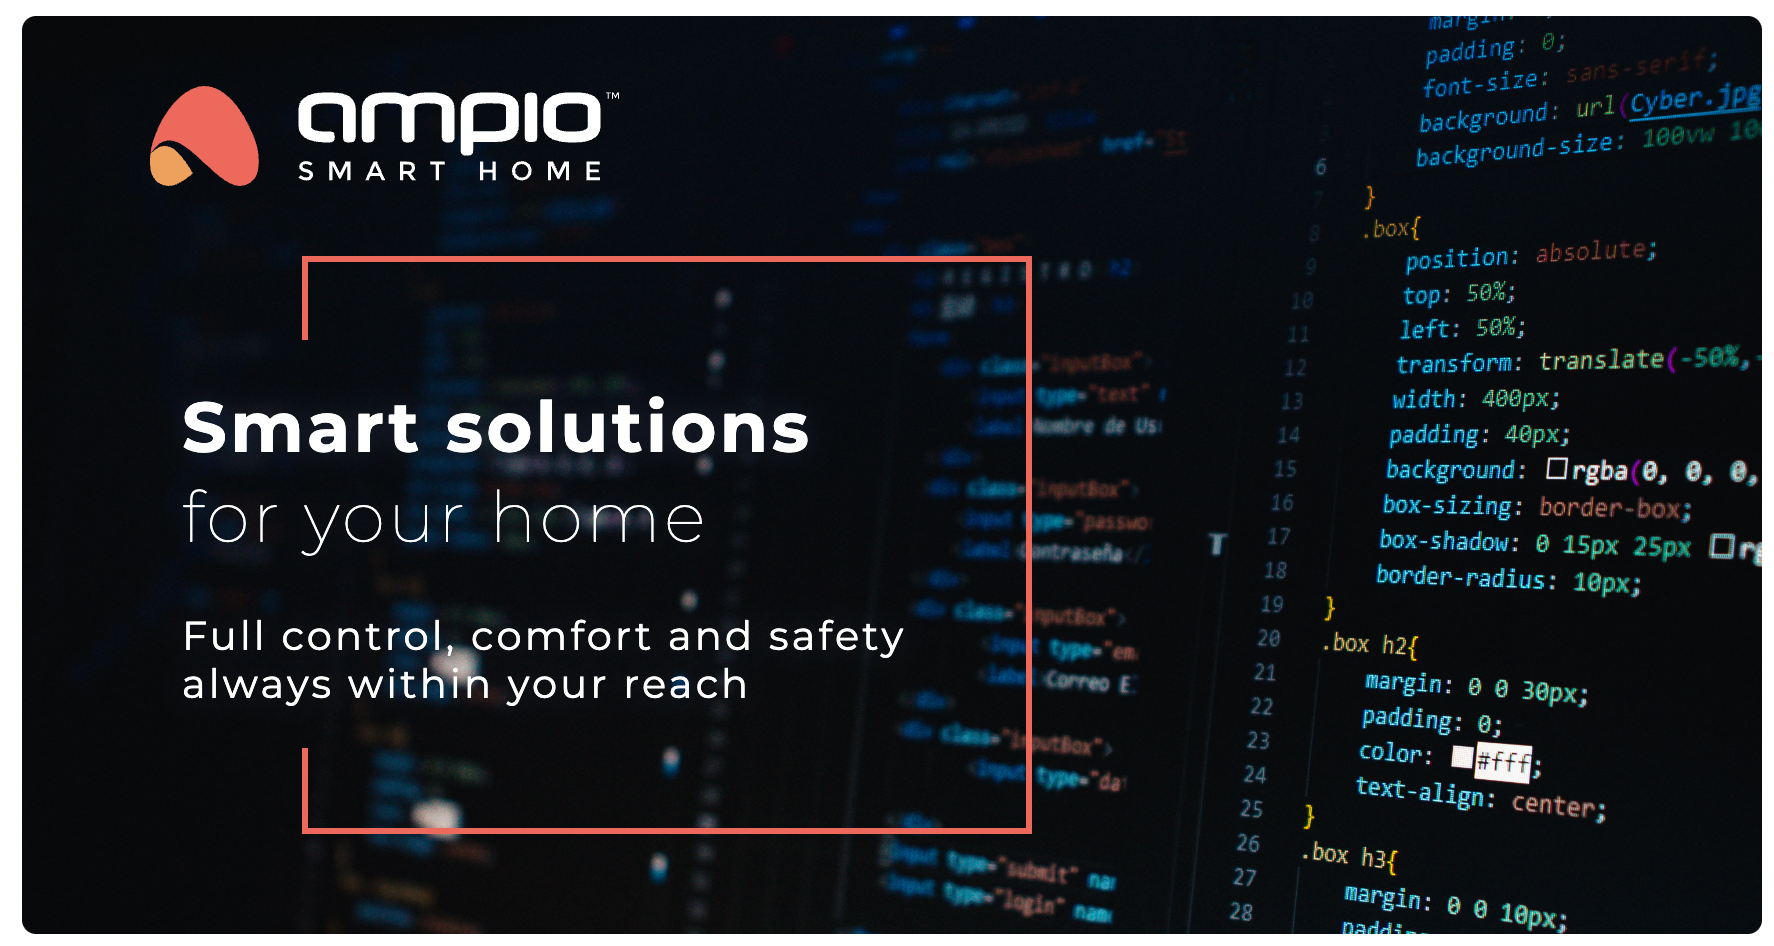
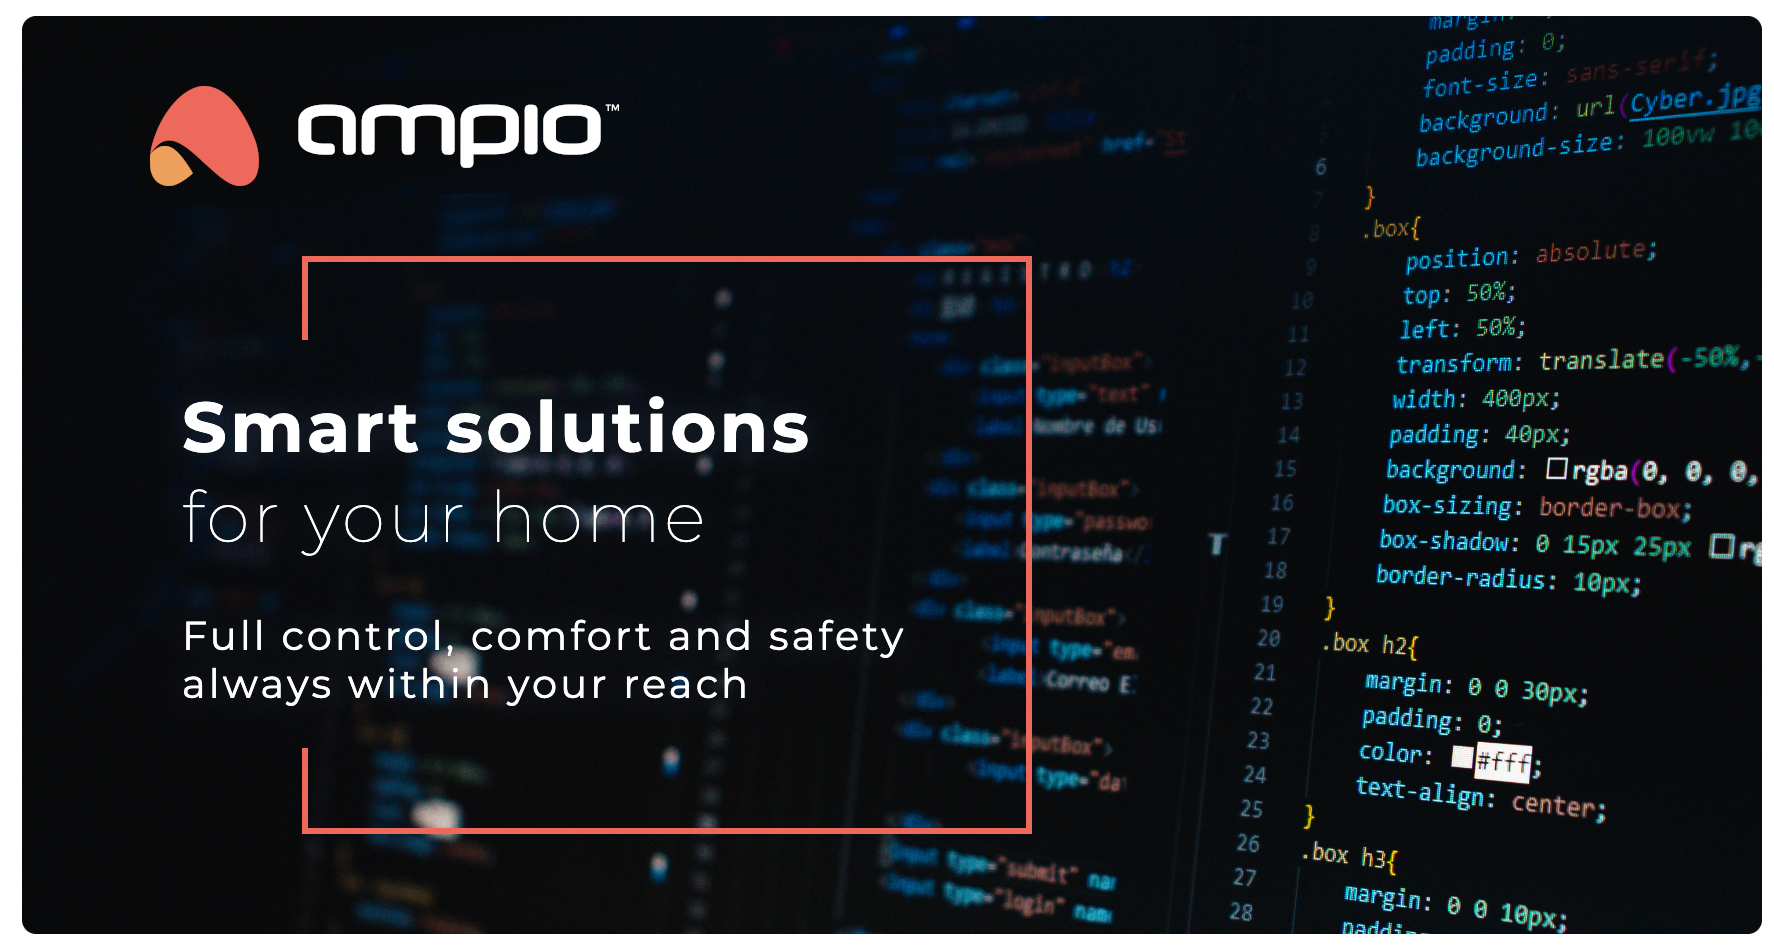
Switch to _just Ampio_ branding.

Changed region(s): [[0.155, 0.092, 0.341, 0.1839]]

diff --git a/profile/README.md b/profile/README.md
@@ -1,14 +1,13 @@
 ![](profile/banner.png)
 
-# Welcome to Ampio Smart Home!
+# Welcome to Ampio
 
-We are Ampio. We design and manufacture a smart home system that provides you with control, comfort,
-safety and reliability. Visit [our page](https://ampio.com) to learn more about our solution!
+We are Ampio. We design and manufacture a building automation system that provides you with control,
+comfort, safety and reliability. Visit [our page](https://ampio.com) to learn more about our solution!
 
-The Ampio smart home system is flexible and welcoming for programmatic integrations and
-customisations. This organisation site is maintained to provide our customers and installers with
-tools, examples and other open-source resources allowing them more comprehensive utilisation of the
-system.
+The Ampio system is flexible and welcoming for programmatic integrations and customisations. This
+organisation site is maintained to provide our customers and installers with tools, examples and
+other open-source resources allowing them more comprehensive utilisation of the system.
 
 -------
 <sub>Banner photo by [Neo from Pexels](https://www.pexels.com/photo/lines-of-code-2653362/).</sub>
